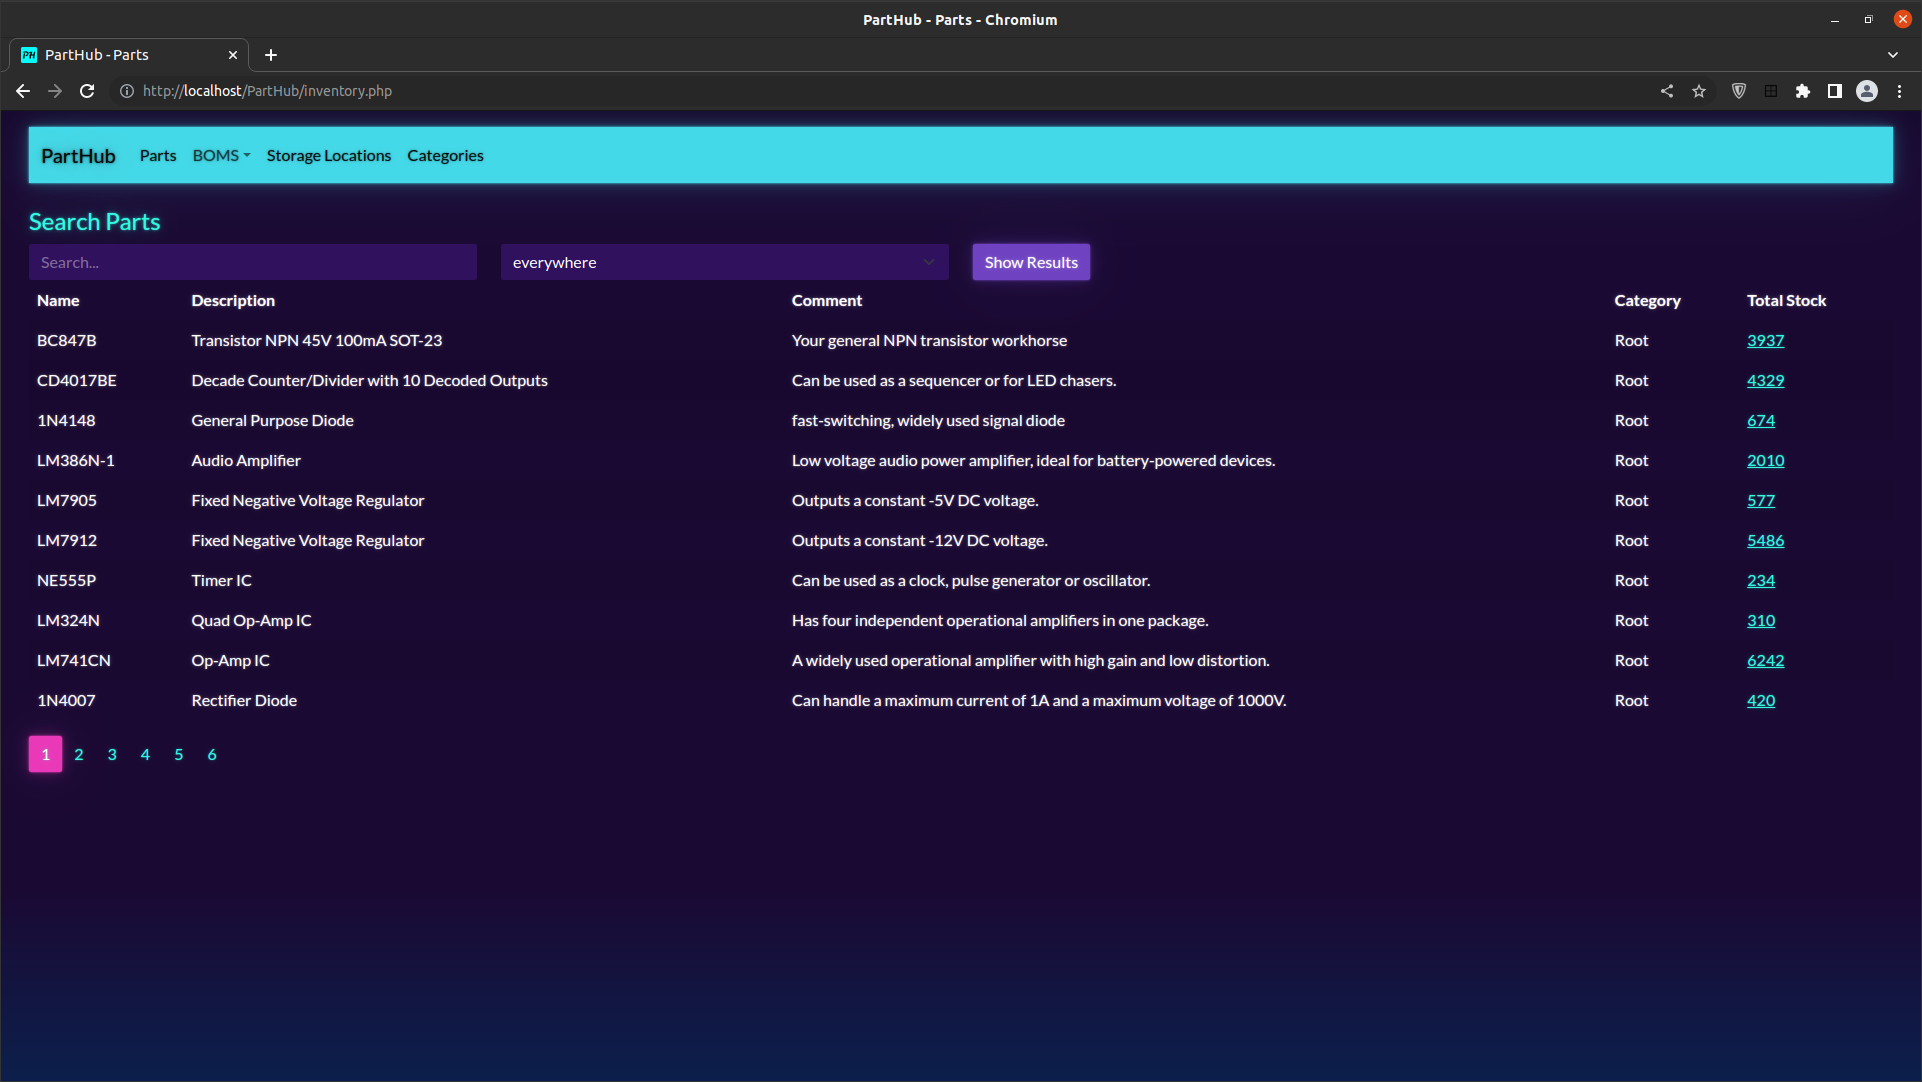
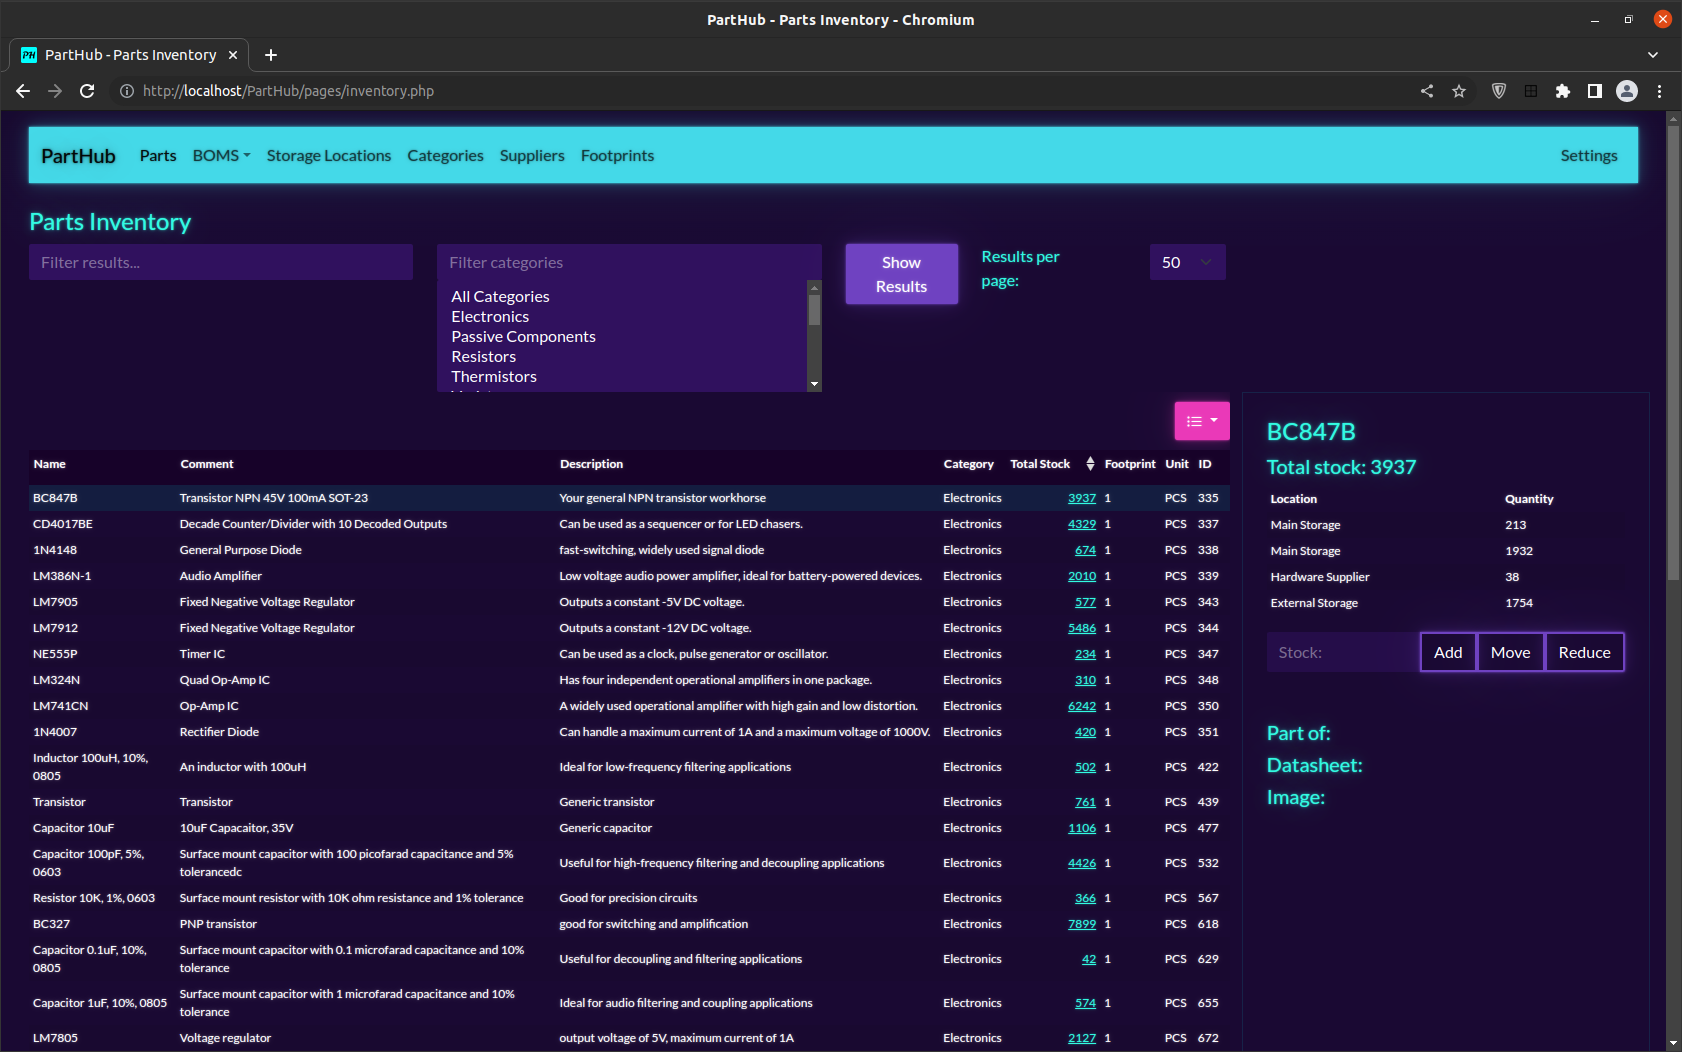
Screenshots

diff --git a/includes/head.html b/includes/head.html
@@ -18,9 +18,9 @@
   <script src="https://code.jquery.com/jquery-3.6.0.min.js"></script>
 
   <!-- Custom Bootstrap Theme-->
-  <!-- <link href="/PartHub/assets/scss/quartz-bootstrap.min.css" rel="stylesheet"> -->
+  <link href="/PartHub/assets/scss/vapor-bootstrap.min.css" rel="stylesheet">
   <!-- OG Bootstrap Theme-->
-  <link href="https://cdn.jsdelivr.net/npm/bootstrap@5.3.0-alpha1/dist/css/bootstrap.min.css" rel="stylesheet">
+  <!-- <link href="https://cdn.jsdelivr.net/npm/bootstrap@5.3.0-alpha1/dist/css/bootstrap.min.css" rel="stylesheet"> -->
 
   <!-- Bootstrap -->
   <link href="https://getbootstrap.com/docs/5.3/assets/css/docs.css" rel="stylesheet">
